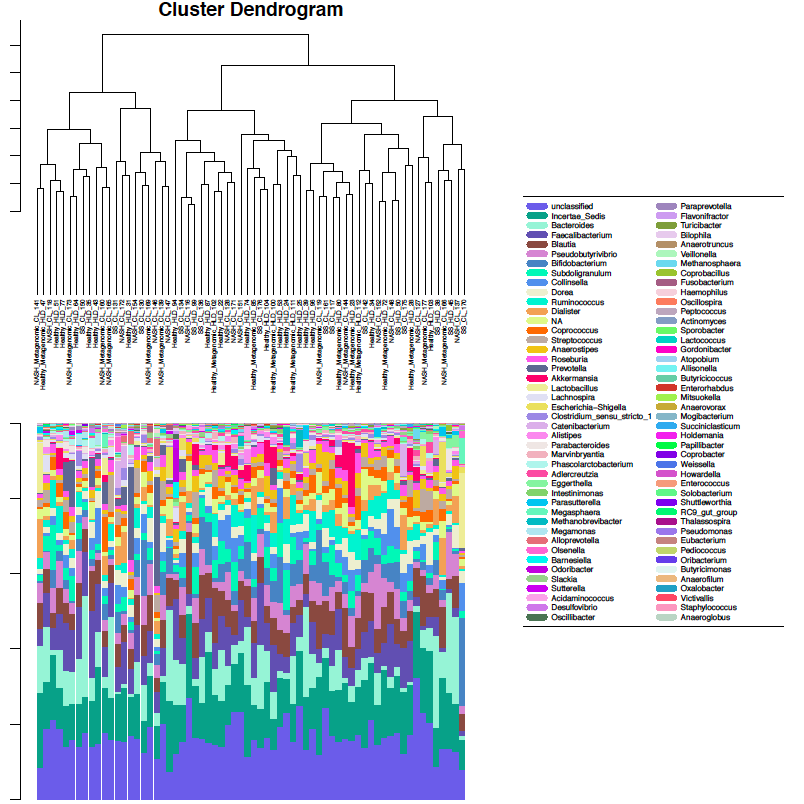
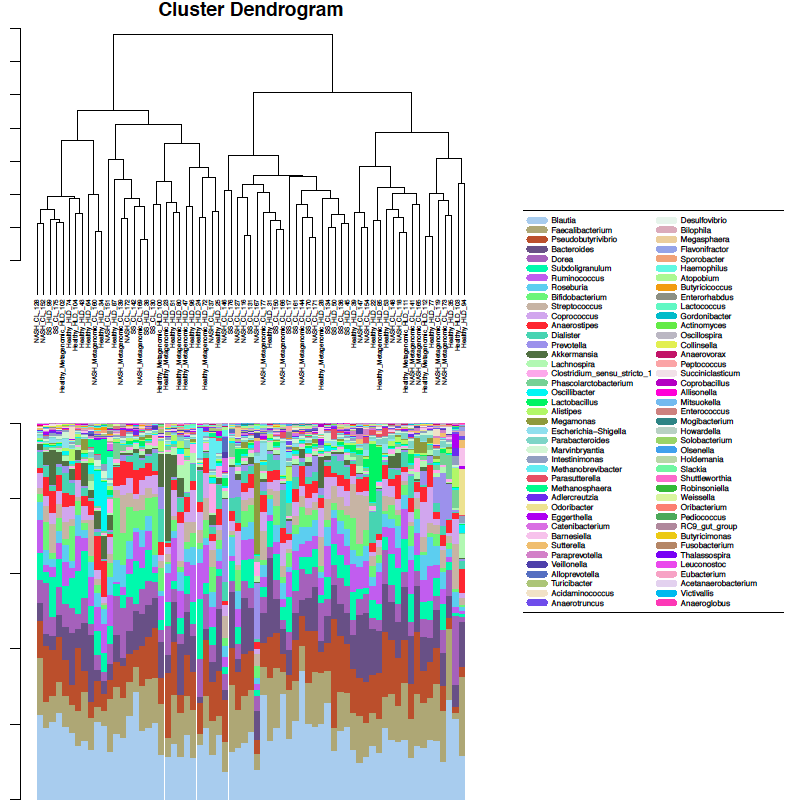
updated 16s barplots

diff --git a/nafld.tex b/nafld.tex
@@ -184,12 +184,12 @@ Differential abudance was analyzed using ALDEx2 \cite{fernandes2014unifying}. A 
 \section{Results}
 
 \subsection{16S rRNA gene tag experiment}
-The top five genus detected by 16S rRNA gene sequencing (excluding unclassified bacteria) were: \textit{Incertae Sedis}, \textit{Bacteroides}, \textit{Faecalibacterium}, \textit{Blautia}, and \textit{Pseudobutyrivibrio} (Fig.~\ref{nafld_16s_barplot}).
+The top four genus detected by 16S rRNA gene sequencing (excluding unclassified bacteria) were: \textit{Bacteroides}, \textit{Faecalibacterium}, \textit{Blautia}, and \textit{Pseudobutyrivibrio} (Fig.~\ref{nafld_16s_barplot}).
 
 \begin{figure}[h]
 \begin{center}
 \includegraphics[width=0.95\textwidth]{16s_genus_barplot.png}
-\caption{\textbf{16S rRNA gene tag sequencing per sample bar plot.} Each column of this bar plot represents one sample, and each color represents one bacterial genus. Genus are listed in the legend in order of decreasing total abundance across all samples. Samples do not cluster according to their condition (healthy, simple steatosis, or nonalcoholic steatohepatitis).}
+\caption{\textbf{16S rRNA gene tag sequencing per sample bar plot.} Each column of this bar plot represents one sample, and each color represents one bacterial genus. Genus are listed in the legend in order of decreasing total abundance across all samples. Samples do not cluster according to their condition (healthy, simple steatosis, or nonalcoholic steatohepatitis). Note that OTUs that mapped to unclassified or \textit{Incertae Sedis} were removed, and these made up just over a third of the total abundance.}
 \end{center}
 \label{nafld_16s_barplot}
 \end{figure}

diff --git a/westernthesis.tex b/westernthesis.tex
@@ -248,7 +248,7 @@
 }
 \newcommand{\makeacknowlege} {
 %Type in acknowlegements here
-Many thanks to Dr. Gregory B. Gloor and Dr. Jean Macklaim, who taught me everything, and Dr. Lindi M. Wahl and Dr. David R. Edgell for being part of my wonderfully supportive committee.
+Many thanks to Dr. Gregory B. Gloor and Dr. Jean Macklaim, who taught me everything, and Dr. Lindi M. Wahl and Dr. David R. Edgell for being part of my wonderfully supportive committee, and Robin Pham for his endlessly patient emotional and tech support.
 }
 \newcommand{\listappendixname}{List of Appendices}
 \newlistof{myappendices}{app}{\listappendixname}
